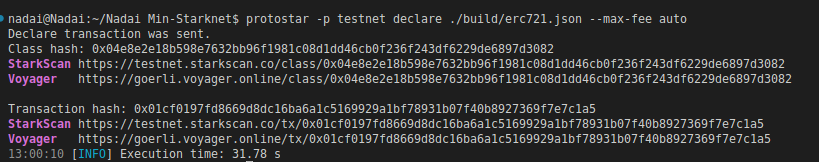
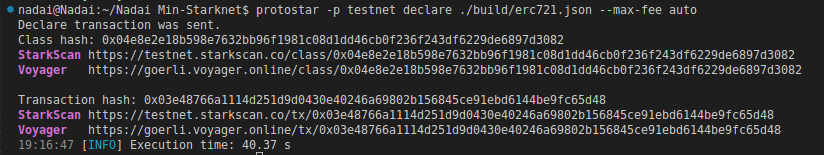
Nadai Min-Starknet

diff --git a/src/min_nft_marketplace/README.md b/src/min_nft_marketplace/README.md
@@ -6,15 +6,15 @@ Una vez instalado y clonado este repositorio no hará falta iniciar el proyecto 
 
 ----
 
-## Ajustes Account
+### Ajustes Account
 
[2 lines of base64/hex data omitted]
 
  **Recordar que tenemos `OPCIONES A - B` para TESTNET o TESNET2 y no usar ni compartir ninguna PRIVATE KEY NUNCA, todo ello es provisional hasta la versión de `CAIRO 1.0`. Al reiniciar el pc o terminal tendrá que volver a exportar la clave.** 
  
  #### OPCIÓN A - EXPORT PRIVATE KEY
  
- Con esta opción pasaremos el `hexa` convertido de nuestra private key para exportarla, usando el siguiente comando. (SUSITITUIR 0x1234 por vuestro hexa).
+ En la versión `0.9.0 protostar` teniamos que pasarlo a `hexa` usando [Stark-utils](https://www.stark-utils.xyz/converter). En la `0.9.1` pasaremos nuestra private key  directamente para exportarla, usando el siguiente comando. (SUSITITUIR 0x1234 por vuestro hexa).
 
 ```bash
 export PROTOSTAR_ACCOUNT_PRIVATE_KEY=0x1234
@@ -62,96 +62,63 @@ protostar -p testnet declare ./build/nft_market.json --max-fee auto
 
 ## Deploy de Nft Marketplace con UDC
 
-Usaremos esta vez para el `Min-Starknet` protostaar, ya que no debemos pasar argumentos así directamente podremos hacer el `deploy` usando el siguiente comando.
+Usaremos esta vez para el `Min-Starknet` protostar, ya que no debemos pasar argumentos así directamente podremos hacer el `deploy` usando el siguiente comando.
 
 
 ```bash
 protostar -p testnet deploy 0x0250ded8ce7f9f9345281754e6aa688282cf185a78ba4d60f2f441d25b054811 --max-fee auto
 ```
 
-![Graph](/src/min_erc721/Im%C3%A1genes/deploy.png)
+![Graph](/src/min_nft_marketplace/im%C3%A1genes/deploy.png
 
 
-* [Hash Deploy](https://goerli.voyager.online/tx/0x06ad6efa03c6627d771d02e22b95e911c7e7666d66c7c766521c125d7b66ac2e)
-* [Contract Nft Market](https://goerli.voyager.online/contract/0x03817280345836863d60b62ad14cddb10a3c4f20475328cf1fe4519e1a2a1de0)
+* [Hash Deploy](https://testnet.starkscan.co/tx/0x04ed7094a58f0e59feaaa1c0183aeb11b14414576a65bb21191ccdc6a70a0cd9)
+* [Contract Nft Market](https://testnet.starkscan.co/contract/0x000ae210c507e00ea33a734c138f3368a53ccb837b517b737b072ced145cd72c)
 
 
-Ahora para hacer las pruebas deberemos ir primero a `approve` y el `setApprovalForAll` del [ERC721](https://testnet.starkscan.co/contract/0x03b084d2d248b3e9c248e8851f5f3d6b2964919e4b958b88ee2c524ca5a436c0) que creamos anteriormente, pasándole la dirección del contrato de [Nft Market](https://goerli.voyager.online/contract/0x03817280345836863d60b62ad14cddb10a3c4f20475328cf1fe4519e1a2a1de0) que acabamos de crear, así podremos empezar a listar nuestros NFT para la venta.
+Ahora para hacer las pruebas deberemos ir primero el `setApprovalForAll` del [ERC721](https://testnet.starkscan.co/contract/0x017ae461c10ce6be043b8895c5a445960a832dff8f891a8c4284105be723255a) que creamos anteriormente, pasándole la dirección del contrato de [Nft Market](https://testnet.starkscan.co/contract/0x000ae210c507e00ea33a734c138f3368a53ccb837b517b737b072ced145cd72c) que acabamos de crear, y el valor `1` como true, así podremos empezar a listar nuestros NFT para la venta.
 
 
-* [Hash Approve ERC721](https://testnet.starkscan.co/tx/0x28bb1f8c99c5ac583a6aa862fdb57998fc613640e41564eb6f51e5ba465ffe5#overview)
+* [Hash setApprovalForAll](https://testnet.starkscan.co/tx/0x375c1f0a659052d45e31429a91e50634438631d6e676fdb6fb600fcb683e7c5)
 
-![Graph](approve)
-
-Ahora ya podemos `list_token` en nuestro [Nft Market](https://goerli.voyager.online/contract/0x03817280345836863d60b62ad14cddb10a3c4f20475328cf1fe4519e1a2a1de0) que le pasaremos el contrato de `ERC721`, `Id` y `Price`.
+![Graph](/src/min_nft_marketplace/im%C3%A1genes/forall.png)
 
 
-* [Hash List Token](https://goerli.voyager.online/tx/0x5d3d14f4d1d441b83cf1394f7386ee45a5b5983fff39613c111b0f99fe04380)
+Ahora ya podemos `list_token` en nuestro [Nft Market](https://testnet.starkscan.co/contract/0x000ae210c507e00ea33a734c138f3368a53ccb837b517b737b072ced145cd72c) que le pasaremos el contrato de `ERC721`, `Id` y `Price`.
 
-![Graph](list)
+![Graph](/src/min_nft_marketplace/im%C3%A1genes/list.png)
 
-Podemos revisar como se nos ha deployado con el datos pasados correctamente y como hemos agregado nuestro nuevo NFT `NAI`, pero aún no hemos `Mint` ninguno. Recordar que muchas funciones en los contratos necesitan aprovar primero, en este caso para el `Mint` no hace falta. Una vez verificado la transacción podremos leer el contato y comprobar que se ha creado nuestro `NFT`, asi que vamos a ello. 
+* [Hash List Token](https://testnet.starkscan.co/tx/0x75f2f4b515795e950778371fe231da3e921c4e8acda684ffee49fff85f381b)
 
+![Graph](/src/min_nft_marketplace/im%C3%A1genes/listing.png)
 
-![Graph](/src/min_erc721/Im%C3%A1genes/mint.png))
+Podemos revisar como se nos ha deployado con el datos pasados correctamente y como hemos agregado nuestro nuevo NFT `NAFT`, pero aún no hemos comprado ninguno. Recordar que muchas funciones en los contratos necesitan aprovar primero.
 
-![Graph](/src/min_erc721/Im%C3%A1genes/read.png))
+---
+## Approve en ETH y Compra del NFT
 
+ El comprador debe haber aprobado previamente el gasto del precio de la lista en [ETH en Starknet](https://testnet.starkscan.co/contract/0x049d36570d4e46f48e99674bd3fcc84644ddd6b96f7c741b1562b82f9e004dc7#write-contract) para poder completar la venta. Esto se hace utilizando el método `allowance` del contrato ERC20 `IERC20`. Este método devuelve la cantidad de ETH que el comprador ha aprobado para que se gaste en nombre del comprador por un contrato específico. Asi que deberemos de ir al contrato de [ETH en Starknet](https://testnet.starkscan.co/contract/0x049d36570d4e46f48e99674bd3fcc84644ddd6b96f7c741b1562b82f9e004dc7#write-contract) que estaba definido como constante en [nft_market.cairo](/src/min_nft_marketplace/nft_market.cairo#L28) y `aprobar` que el contrato [Nft Market](https://testnet.starkscan.co/contract/0x000ae210c507e00ea33a734c138f3368a53ccb837b517b737b072ced145cd72c) pueda gastar la cantidad necesaria en este caso `100000` para poder hacer la compra, para la guía probaremos con otra wallet como comprador.
 
-* [Hash Mint NFT ID1](https://testnet.starkscan.co/tx/0x27491087f60f7ce3de18805b5eda54ef8efbb6b4a505e676273711b22faa801)
+![Graph](/src/min_nft_marketplace/im%C3%A1genes/approve.png)
 
-Como ven, solo ha hecho falta en nuestro contrato deployado llamar a `mint` y pasarle nuestra wallet que queremos recibir. También se puede pasar sin ser convertida a felt por comodidad.
+* [Hash del Approve](https://testnet.starkscan.co/tx/0x3929dd8f3ad259d79255d866c8abcc23578bd848677f50cd2a6b08c2a4a336f)
+
+Ahora ya podremos ir directamente al contrato del [Nft Market](https://testnet.starkscan.co/contract/0x000ae210c507e00ea33a734c138f3368a53ccb837b517b737b072ced145cd72c) en la opción de `Buy_token`. En la que se encargará directamente de enviar el saldo al vendedor y el NAFT al comprador, quedando en los eventos actualizado la `listing_sold`.
+
+![Graph](/src/min_nft_marketplace/im%C3%A1genes/buy.png)
+
+* [Hash Buy Token](https://testnet.starkscan.co/tx/0x2d22b2c5c92d6bd051ceb56242ebcc892901dd9f5c0d3af1561377f468b8ea1)
 
 ---
 
 ### Verificación Starkscan
 
-Como tarea extra podemos dejar verificado nuestro contrato en `Starkscan`, para ello debemos de tener instalada y guardado el contrato que acabamos de hacer el `Deploy`. Ejecutamos el siguiente comando, escogemos el `Erc721.cairo` y vamos siguiendo los pasos. (EN CASO ERROR EN LA RUTA SOLO HAY QUE AÑADIR LA PALABRA `lib`)
+Como tarea extra podemos dejar verificado nuestro contrato en `Starkscan`, para ello debemos de tener instalada y guardado el contrato que acabamos de hacer el `Deploy`. Ejecutamos el siguiente comando, escogemos el `nft_market.cairo` y vamos siguiendo los pasos. (EN CASO ERROR EN LA RUTA SOLO HAY QUE AÑADIR LA PALABRA `lib`)
 
 ```bash
 starkscan
 ```
 
-![Graph](/src/min_erc721/Im%C3%A1genes/lib.png)
+![Graph](/src/min_nft_marketplace/im%C3%A1genes/lib.png)
 
 ---
-
-approve
-
-https://testnet.starkscan.co/tx/0x69ffe8753ce658a3b979d6753c7180a6a04a0925c5eb64b3ec3ce7a76c883eb
-
-
-
-token list 2
-
-https://goerli.voyager.online/tx/0x3b205dee55e2e10691035306bf6cd8c4be92d02cee13cfedc636335dc3dd6fe
-
-
-
-deploy nft market 2
-
-https://testnet.starkscan.co/tx/0x2271aedf8cfecd8ce39b4239474dadb9e1b3935b350d3c2fdb52c87b5e84480
-
-
-contract nft market
-
-https://goerli.voyager.online/contract/0x05f4e7a56fac26055f87c86421b5ccabb9f846df9111bb19ebca645d6a36dac0#readContract
-
-
-set aproval
-
-https://goerli.voyager.online/tx/0x40c426e83eb37d4b91dd295f05ca3d067d9876e0e294ba6d99c2dfdc5a343c9
-
-
-mint1 market2
-
-https://goerli.voyager.online/tx/0x387cba658529ad089a9b39a0d710b4f66f758291a40e0fac22a515c13b2a0b2
-
-list token
-
-https://goerli.voyager.online/tx/0x397bd5eea70f18c7914b5511c15bd79fc67e24b1d29988e92db2bc82c3a3554
-
-
-
-
-1668820343402860704848198113071499437440800451990432553922379348409055459008, 1, 0,  1795950254530259382270168937734171348535331377400385313842303804539016002736, 1

diff --git a/src/min_erc721/README.md b/src/min_erc721/README.md
@@ -8,13 +8,13 @@ Una vez instalado y clonado este repositorio no hará falta iniciar el proyecto 
 
 ### Ajustes Account
 
[2 lines of base64/hex data omitted]
 
  **Recordar que tenemos `OPCIONES A - B` para TESTNET o TESNET2 y no usar ni compartir ninguna PRIVATE KEY NUNCA, todo ello es provisional hasta la versión de `CAIRO 1.0`. Al reiniciar el pc o terminal tendrá que volver a exportar la clave.** 
  
  #### OPCIÓN A - EXPORT PRIVATE KEY
  
- Con esta opción pasaremos el `hexa` convertido de nuestra private key para exportarla, usando el siguiente comando. (SUSITITUIR 0x1234 por vuestro hexa).
+ En la versión `0.9.0 protostar` teniamos que pasarlo a `hexa` usando [Stark-utils](https://www.stark-utils.xyz/converter). En la `0.9.1` pasaremos nuestra private key  directamente para exportarla, usando el siguiente comando. (SUSITITUIR 0x1234 por vuestro hexa).
 
 ```bash
 export PROTOSTAR_ACCOUNT_PRIVATE_KEY=0x1234
@@ -65,16 +65,16 @@ protostar -p testnet declare ./build/erc721.json --max-fee auto
 Usaremos por comodidad para el `Min-Starknet` el contrato Universal para los deploy [UDC](https://testnet.starkscan.co/contract/0x041a78e741e5af2fec34b695679bc6891742439f7afb8484ecd7766661ad02bf#write-contract). En este caso pasaremos 3 argumentos, añadir en `calldata_len = 3` [Name, Symbol, Owner]. Pueden usar la herramienta para convertir a `felt` [stark-util](https://www.stark-utils.xyz/converter). En mi caso os dejo la conversión completa de mis argumentos para el `deploy`.
 
 ```
-336641417577, 5128521, 1795950254530259382270168937734171348535331377400385313842303804539016002736
+336641417577, 1312900692, 1795950254530259382270168937734171348535331377400385313842303804539016002736
 ```
 
 ![Graph](/src/min_erc721/Im%C3%A1genes/deploy.png)
 
 
-* [Hash Deploy](https://testnet.starkscan.co/tx/0x42f20c06498763b10877ef6935b20f16cb202e810b2fc8c3aaf4d4504059fa4)
-* [Contract ERC721](https://testnet.starkscan.co/contract/0x03b084d2d248b3e9c248e8851f5f3d6b2964919e4b958b88ee2c524ca5a436c0)
+* [Hash Deploy](https://testnet.starkscan.co/tx/0x7a6bd444bc5a8758f955cae71a0ca5d3bad03f090a7e33a8abc2a12dbe18aa)
+* [Contract ERC721](https://testnet.starkscan.co/contract/0x017ae461c10ce6be043b8895c5a445960a832dff8f891a8c4284105be723255a)
 
-Podemos revisar como se nos ha deployado con el datos pasados correctamente y como hemos agregado nuestro nuevo NFT `NAI`, pero aún no hemos `Mint` ninguno. Recordar que muchas funciones en los contratos necesitan aprovar primero, en este caso para el `Mint` no hace falta. Una vez verificado la transacción podremos leer el contato y comprobar que se ha creado nuestro `NFT`, asi que vamos a ello. 
+Podemos revisar como se nos ha deployado con el datos pasados correctamente y como hemos agregado nuestro nuevo NFT `NAFT`, pero aún no hemos `Mint` ninguno. Recordar que muchas funciones en los contratos necesitan aprobar primero, en este caso para el `Mint` no hace falta. Una vez verificado la transacción podremos leer el contato y comprobar que se ha creado nuestro `NAFT`, asi que vamos a ello. 
 
 
 ![Graph](/src/min_erc721/Im%C3%A1genes/mint.png))
@@ -82,7 +82,7 @@ Podemos revisar como se nos ha deployado con el datos pasados correctamente y co
 ![Graph](/src/min_erc721/Im%C3%A1genes/read.png))
 
 
-* [Hash Mint NFT ID1](https://testnet.starkscan.co/tx/0x27491087f60f7ce3de18805b5eda54ef8efbb6b4a505e676273711b22faa801)
+* [Hash Mint NAFT ID1](https://testnet.starkscan.co/tx/0x119d1ca722c91481c5bd6aa4a6799afcfc48e47d4fe363b85988a06d391b0c0)
 
 Como ven, solo ha hecho falta en nuestro contrato deployado llamar a `mint` y pasarle nuestra wallet que queremos recibir. También se puede pasar sin ser convertida a felt por comodidad.
 

diff --git a/src/min_ens/README.md b/src/min_ens/README.md
@@ -7,13 +7,13 @@ Una vez instalado y clonado este repositorio no hará falta iniciar el proyecto 
 ----
 ### Ajustes Account
 
[2 lines of base64/hex data omitted]
 
  **Recordar que tenemos `OPCIONES A - B` para TESTNET o TESNET2 y no usar ni compartir ninguna PRIVATE KEY NUNCA, todo ello es provisional hasta la versión de `CAIRO 1.0`. Al reiniciar el pc o terminal tendrá que volver a exportar la clave.** 
  
  #### OPCIÓN A - EXPORT PRIVATE KEY
  
- Con esta opción pasaremos el `hexa` convertido de nuestra private key para exportarla, usando el siguiente comando. (SUSITITUIR 0x1234 por vuestro hexa).
+ En la versión `0.9.0 protostar` teniamos que pasarlo a `hexa` usando [Stark-utils](https://www.stark-utils.xyz/converter). En la `0.9.1` pasaremos nuestra private key  directamente para exportarla, usando el siguiente comando. (SUSITITUIR 0x1234 por vuestro hexa).
 
 ```bash
 export PROTOSTAR_ACCOUNT_PRIVATE_KEY=0x1234
@@ -24,7 +24,6 @@ export PROTOSTAR_ACCOUNT_PRIVATE_KEY=0x1234
 Otra opción es este método, añadimos en un archivo `.env` nuestra private key. También tendremos que ajustar el [protostar.toml](/protostar.toml) para indicar la ruta de nuestra Private Key, aunque prefiero esta opción. Nunca mostrar tu clave privada. Nunca subir a Git tu archivo `.env`.
 
 ![Graph](/src/min_ens/imagenes/ruta.png)
-
 
 ### BONUS: Deploy en Testnet2
 

diff --git a/src/min_erc20/README.md b/src/min_erc20/README.md
@@ -8,13 +8,13 @@ Una vez instalado y clonado este repositorio no hará falta iniciar el proyecto 
 
 ### Ajustes Account
 
[2 lines of base64/hex data omitted]
 
  **Recordar que tenemos `OPCIONES A - B` para TESTNET o TESNET2 y no usar ni compartir ninguna PRIVATE KEY NUNCA, todo ello es provisional hasta la versión de `CAIRO 1.0`. Al reiniciar el pc o terminal tendrá que volver a exportar la clave.** 
  
  #### OPCIÓN A - EXPORT PRIVATE KEY
  
- Con esta opción pasaremos el `hexa` convertido de nuestra private key para exportarla, usando el siguiente comando. (SUSITITUIR 0x1234 por vuestro hexa).
+ En la versión `0.9.0 protostar` teniamos que pasarlo a `hexa` usando [Stark-utils](https://www.stark-utils.xyz/converter). En la `0.9.1` pasaremos nuestra private key  directamente para exportarla, usando el siguiente comando. (SUSITITUIR 0x1234 por vuestro hexa).
 
 ```bash
 export PROTOSTAR_ACCOUNT_PRIVATE_KEY=0x1234
